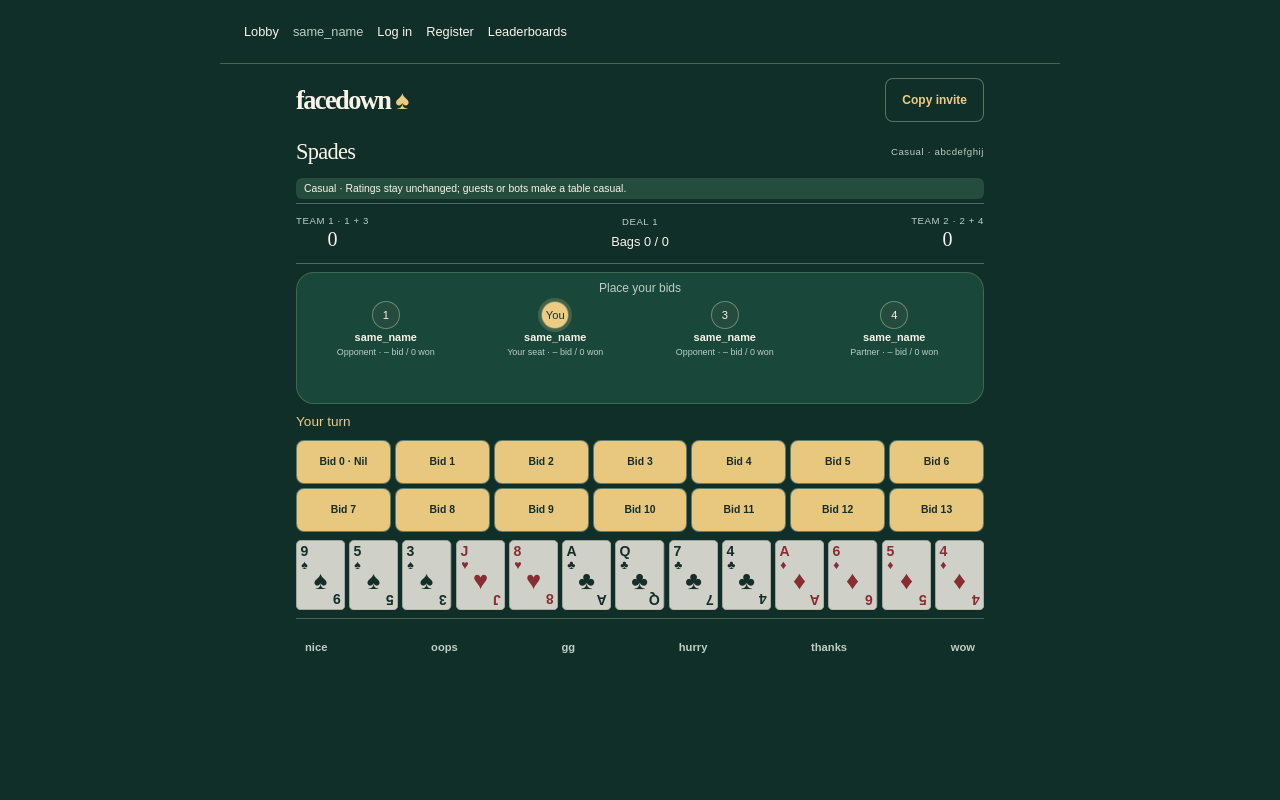
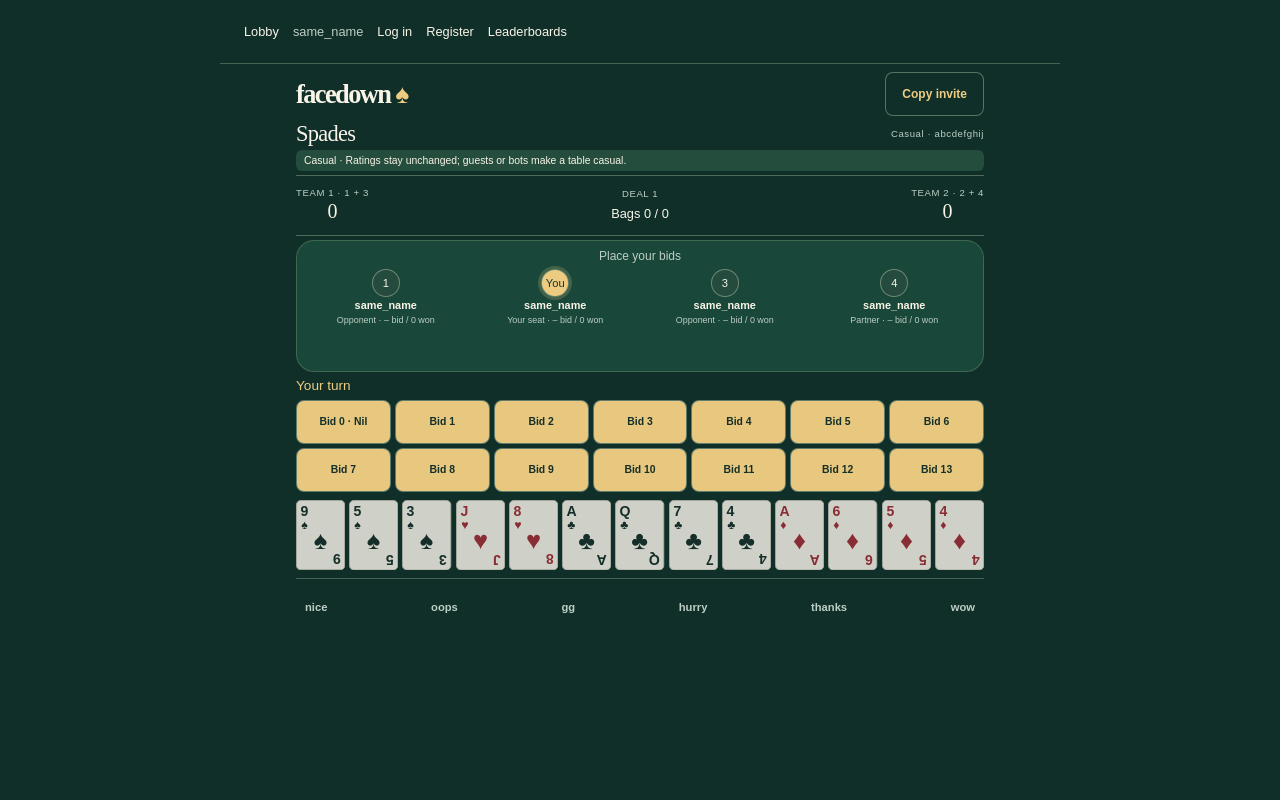
fix: allow font variation in compact bidding layouts #39

diff --git a/test/browser/round2.spec.ts b/test/browser/round2.spec.ts
@@ -2,57 +2,62 @@ import { expect, test } from "./fixture";
 import { tableFixture } from "./table-fixture";
 
 if (process.env.FACEDOWN_BROWSER === "1") {
-  for (const [width, height, scale] of [
-    [1280, 800, 1],
-    [390, 844, 1],
-    [390, 844, 1.5],
-    [390, 844, 2],
-    [360, 640, 1],
-    [320, 568, 1],
-    [844, 390, 1],
-  ] as const)
-    test(`bidding fits ${width}x${height} at ${scale * 100}% text`, async ({
-      page,
-      origin,
-    }, info) => {
-      await page.setViewportSize({ width, height });
-      const wire = await tableFixture(page);
-      await page.goto(`${origin}/tables/${wire.id}`);
-      await expect(
-        page.getByText("Waiting to start", { exact: true }),
-      ).toBeVisible();
-      await page.addStyleTag({
-        content: `:root { font-size: ${16 * scale}px; }`,
-      });
-      wire.send(0, { you: wire.record.moves[0]?.seat });
-      await expect(page.locator(".piece")).toHaveCount(13);
-      await expect(page.locator(".bids button")).toHaveCount(14);
-      if (scale <= 1.5)
-        for (const item of await page.locator(".piece, .bids button").all())
-          await expect(item).toBeInViewport({ ratio: 1 });
-      if (height < 640) {
-        const hand = await page.locator(".hand").boundingBox();
-        const bids = await page.locator(".bids").boundingBox();
-        expect(hand && bids && hand.y + hand.height <= bids.y).toBe(true);
-        await expect(page.locator(".bids")).toHaveCSS("position", "fixed");
-      }
-      expect(
-        await page.evaluate(
-          () => document.documentElement.scrollWidth <= innerWidth,
-        ),
-      ).toBe(true);
-      const you = await page.locator(".south .avatar").boundingBox();
-      const prompt = await page
-        .getByText("Place your bids", { exact: true })
-        .boundingBox();
-      if (you && prompt)
-        expect(prompt.y + prompt.height).toBeLessThanOrEqual(you.y);
-      if ((width === 1280 || width === 360) && scale === 1)
-        await page.screenshot({
-          path: `docs/screenshots/bidding-${info.project.name}-${width}x${height}.png`,
-          animations: "disabled",
+  for (const font of ["system-ui", "sans-serif"])
+    for (const [width, height, scale] of [
+      [1280, 800, 1],
+      [390, 844, 1],
+      [390, 844, 1.5],
+      [390, 844, 2],
+      [360, 640, 1],
+      [320, 568, 1],
+      [844, 390, 1],
+    ] as const)
+      test(`bidding fits ${width}x${height} at ${scale * 100}% text (${font})`, async ({
+        page,
+        origin,
+      }, info) => {
+        await page.setViewportSize({ width, height });
+        const wire = await tableFixture(page);
+        await page.goto(`${origin}/tables/${wire.id}`);
+        await expect(
+          page.getByText("Waiting to start", { exact: true }),
+        ).toBeVisible();
+        await page.addStyleTag({
+          content: `:root { font-size: ${16 * scale}px; font-family: ${font}; }`,
         });
-    });
+        wire.send(0, { you: wire.record.moves[0]?.seat });
+        await expect(page.locator(".piece")).toHaveCount(13);
+        await expect(page.locator(".bids button")).toHaveCount(14);
+        if (scale <= 1.5)
+          for (const item of await page.locator(".piece, .bids button").all())
+            await expect(item).toBeInViewport({ ratio: 1 });
+        if (height < 640) {
+          const hand = await page.locator(".hand").boundingBox();
+          const bids = await page.locator(".bids").boundingBox();
+          expect(hand && bids && hand.y + hand.height <= bids.y).toBe(true);
+          await expect(page.locator(".bids")).toHaveCSS("position", "fixed");
+        }
+        expect(
+          await page.evaluate(
+            () => document.documentElement.scrollWidth <= innerWidth,
+          ),
+        ).toBe(true);
+        const you = await page.locator(".south .avatar").boundingBox();
+        const prompt = await page
+          .getByText("Place your bids", { exact: true })
+          .boundingBox();
+        if (you && prompt)
+          expect(prompt.y + prompt.height).toBeLessThanOrEqual(you.y);
+        if (
+          (width === 1280 || width === 360) &&
+          scale === 1 &&
+          font === "system-ui"
+        )
+          await page.screenshot({
+            path: `docs/screenshots/bidding-${info.project.name}-${width}x${height}.png`,
+            animations: "disabled",
+          });
+      });
 
   test("direct lookup loads an invite outside the newest 50 and a finished Dominoes reload", async ({
     page,

diff --git a/client/src/bidding.css b/client/src/bidding.css
@@ -116,3 +116,19 @@
 .game.bidding .game-heading h1 {
   font-size: 1.4rem;
 }
+
+.game.bidding {
+  padding-top: 8px;
+}
+.game.bidding .brand {
+  flex-wrap: wrap;
+  margin-bottom: 4px;
+}
+.game.bidding .game-heading {
+  margin-bottom: 4px;
+}
+.game.bidding .board,
+.game.bidding .turn {
+  margin-top: 4px;
+  margin-bottom: 4px;
+}
